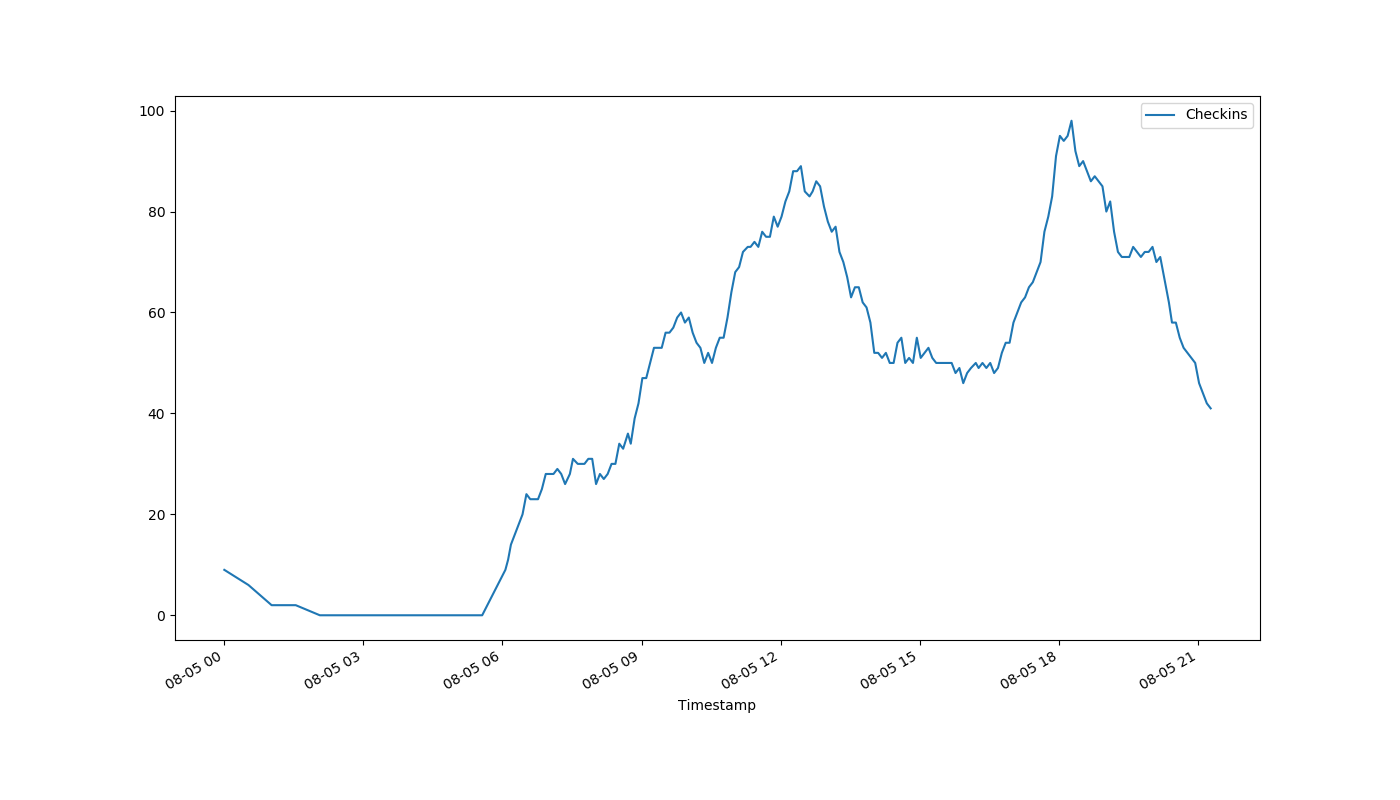
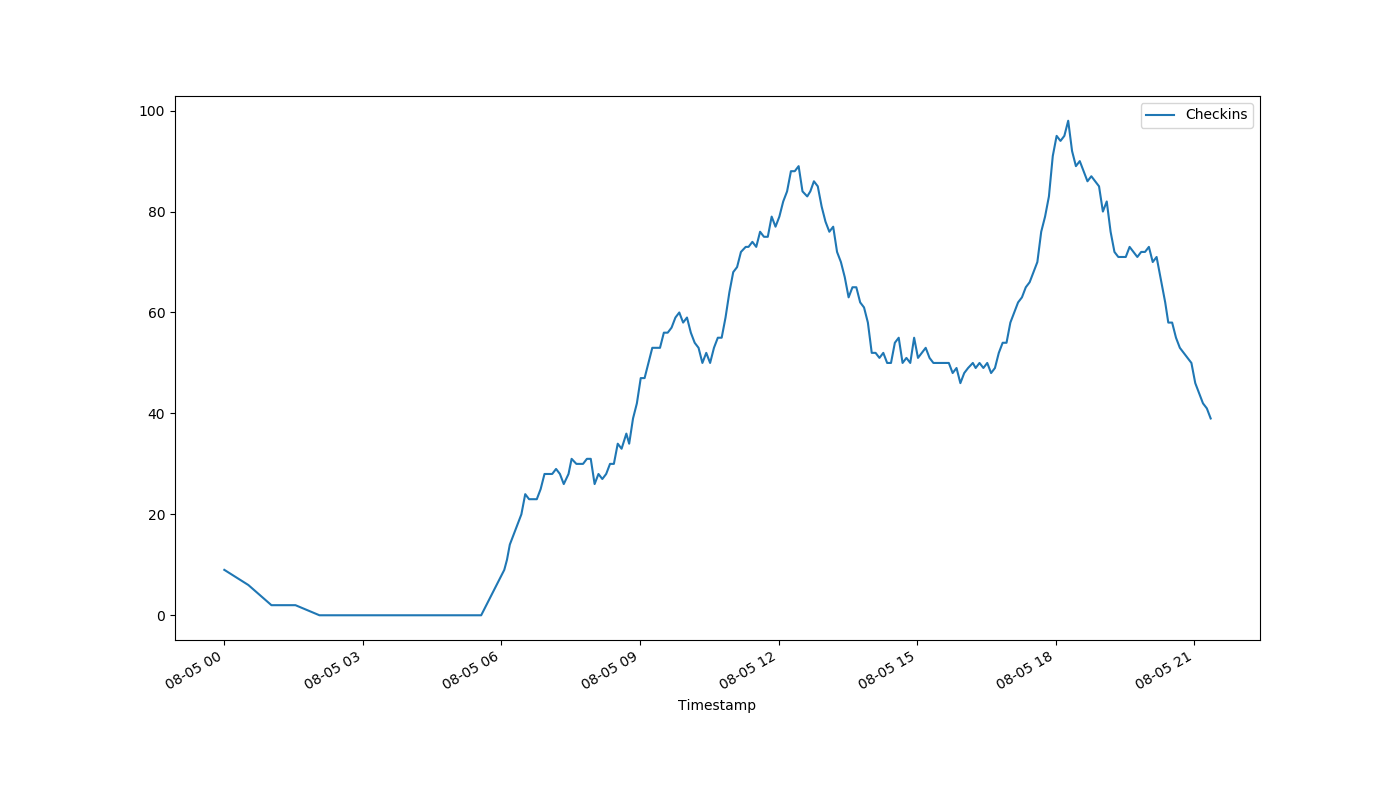
auto-Aug-05-21:22:37

diff --git a/index.html b/index.html
@@ -1,1 +1,1 @@
-<!DOCTYPE html><html><head><meta http-equiv="refresh" content="30"><link rel='stylesheet' href='holmcurrent.css'></head><body><p id='count'>41</p><div id='graph-wrap'><img id='graph' src='holmgraph-Aug-05.png'></div><p id='updated'>Last updated 21:17:09 / 21:16:18</p></body></html>
+<!DOCTYPE html><html><head><meta http-equiv="refresh" content="30"><link rel='stylesheet' href='holmcurrent.css'></head><body><p id='count'>39</p><div id='graph-wrap'><img id='graph' src='holmgraph-Aug-05.png'></div><p id='updated'>Last updated 21:22:09 / 21:21:18</p></body></html>
